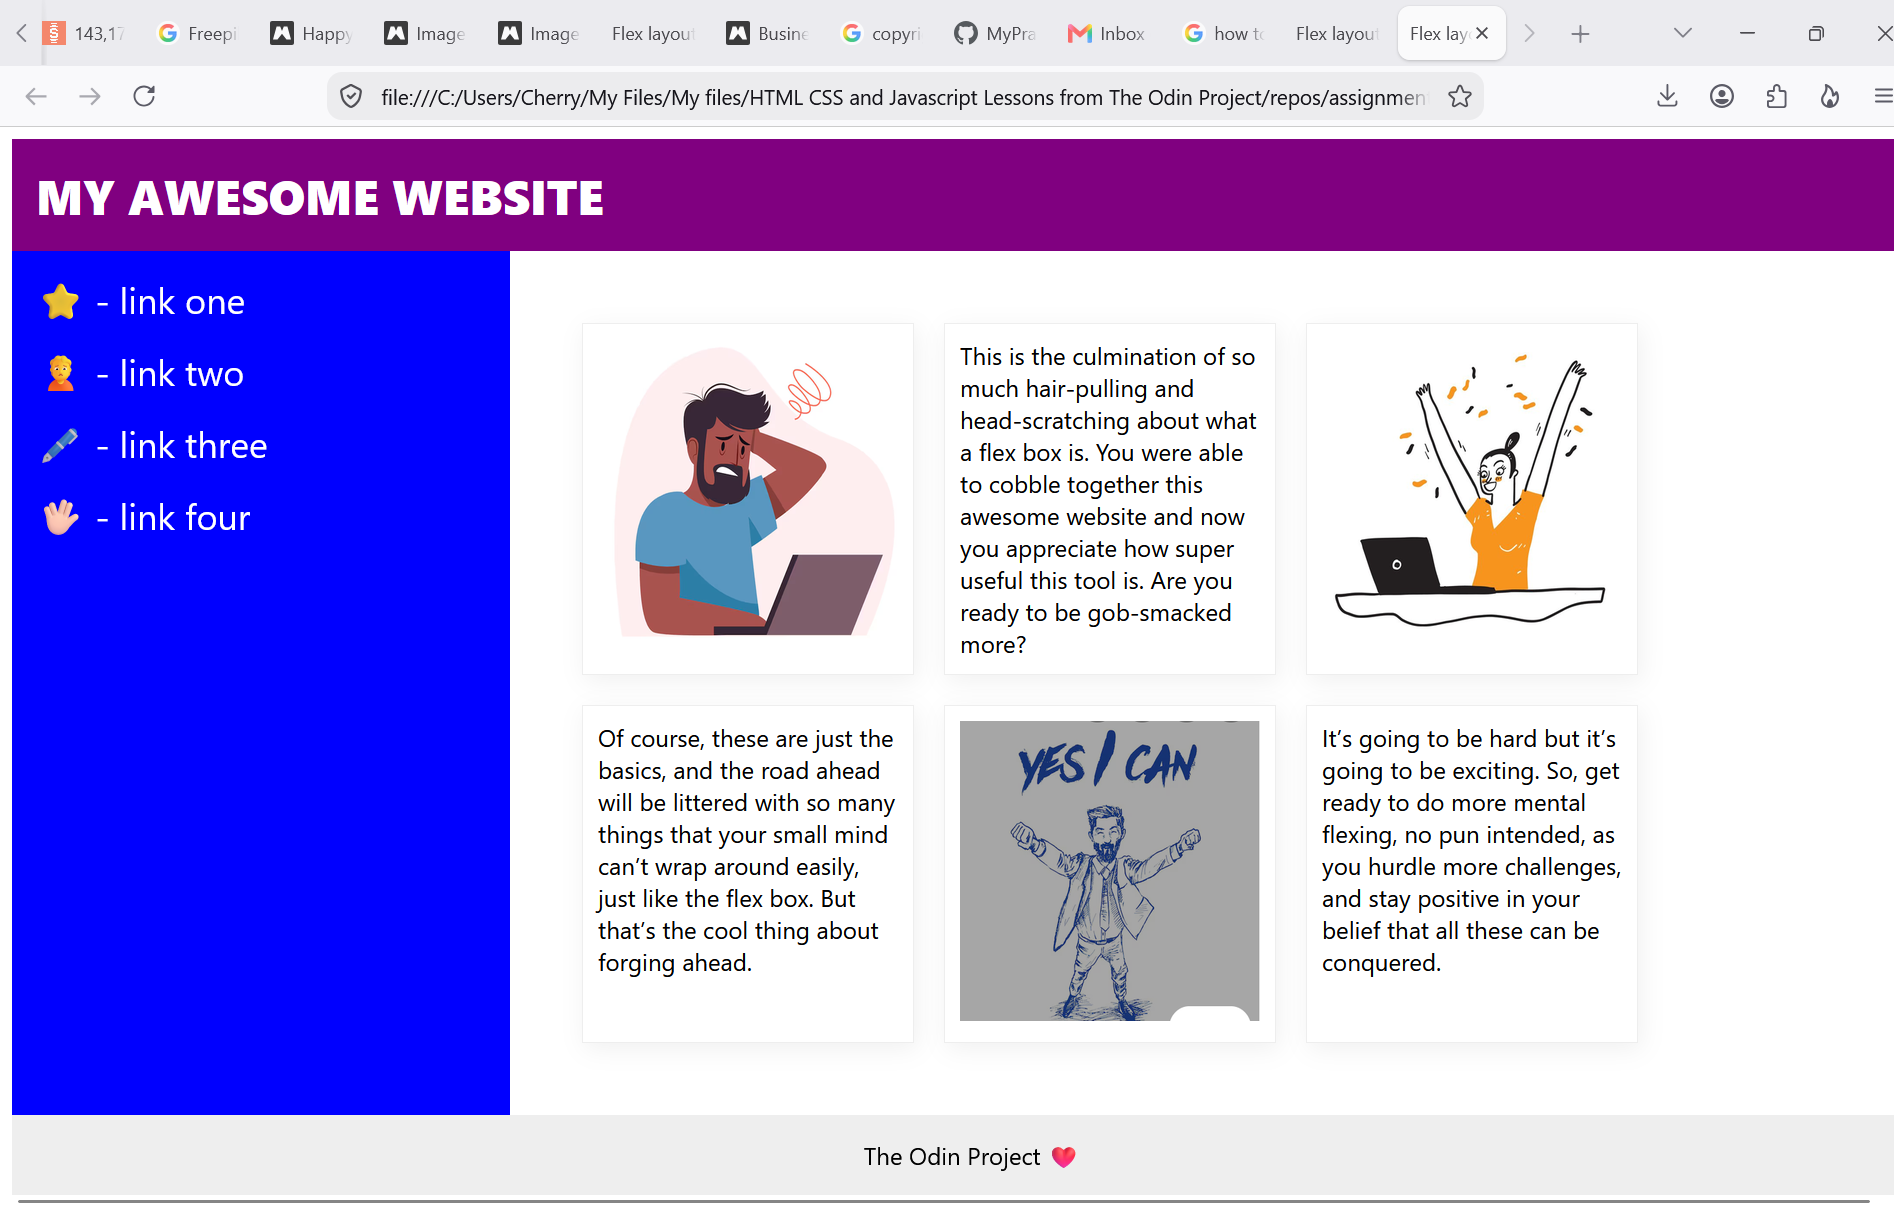
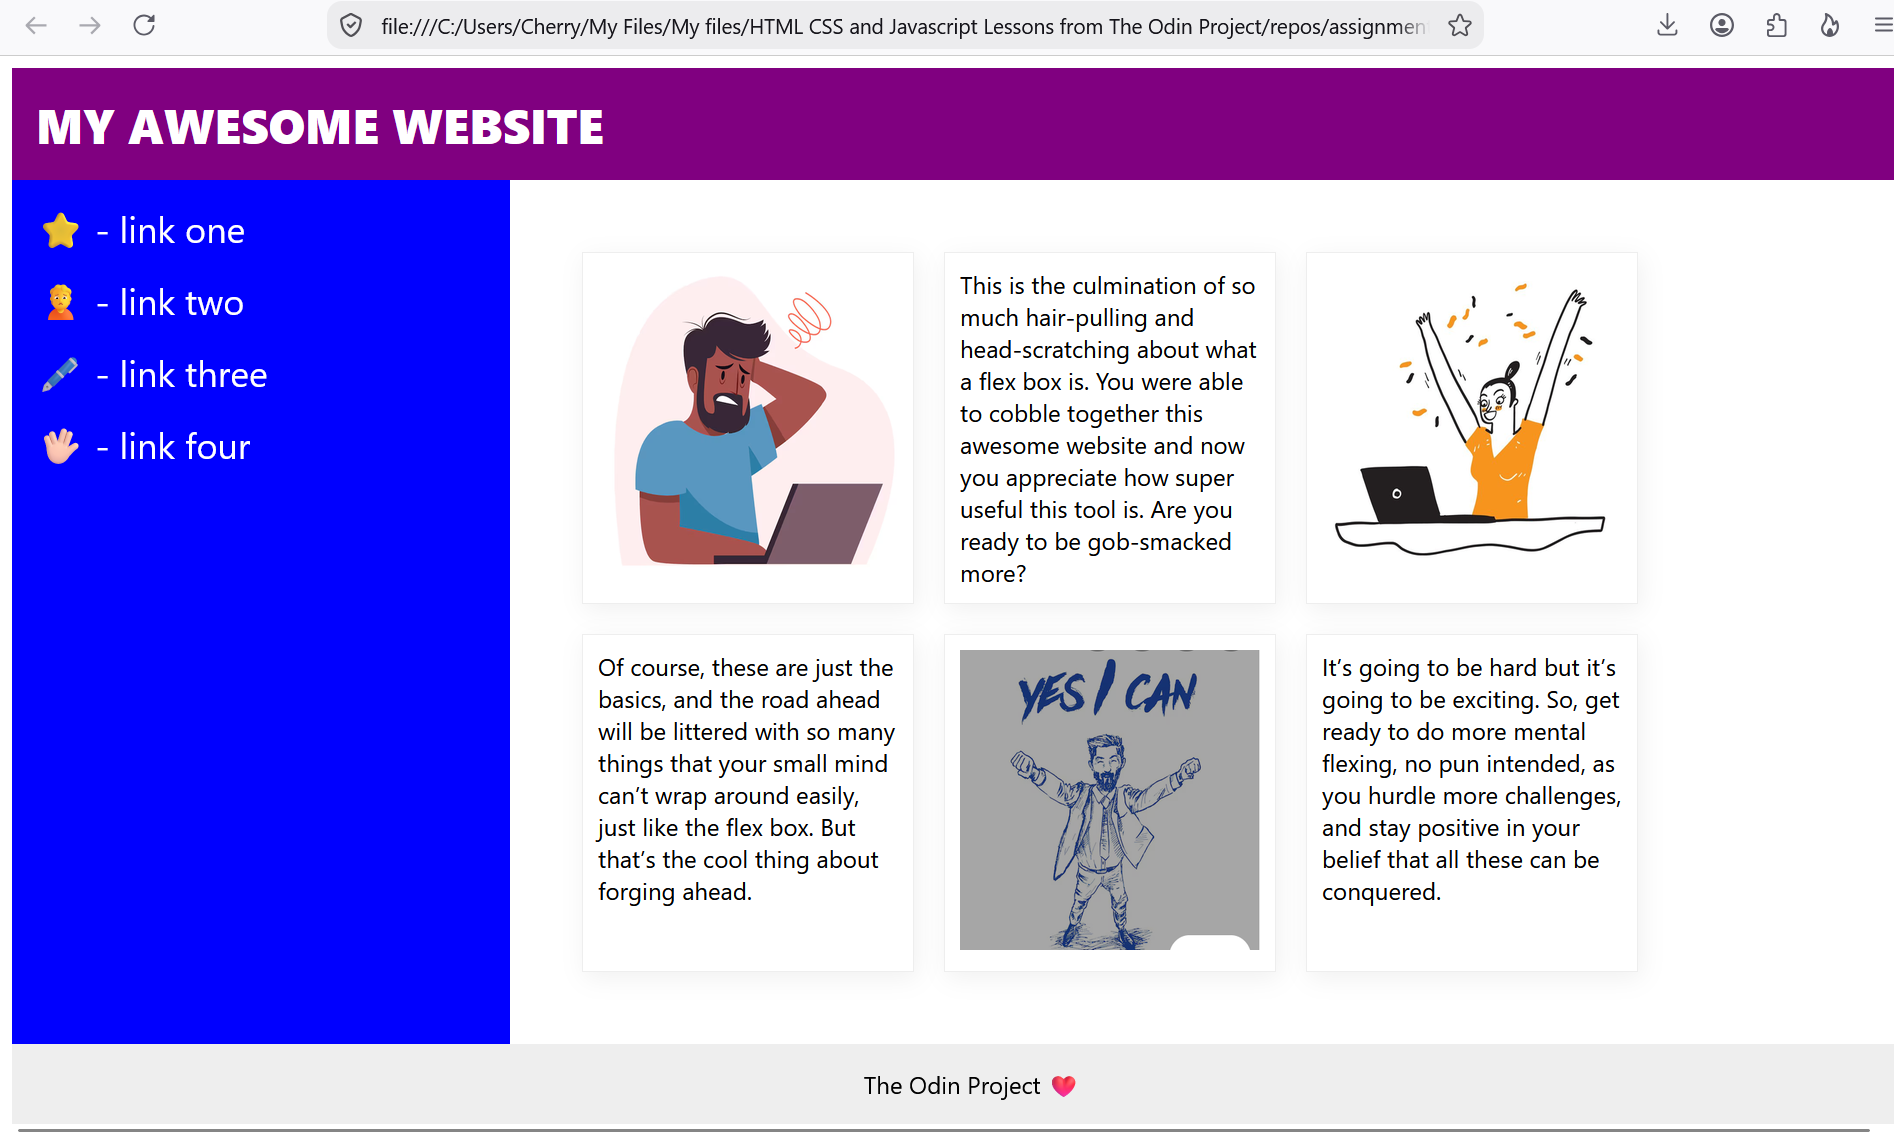
Changes to the screenshot and README commit

diff --git a/README.md b/README.md
@@ -14,7 +14,7 @@ Images are free and taken from the awesome website www.magnific.com. Credits:
 
 a href="https://www.magnific.com/free-vector/business-man-with-text-yes-i-can-hand-draw-sketch-illustration-design_30832338.htm">Image by Rochak Shukla on Magnific
 
-![alt text](image.png)
+![alt text](image-1.png)
 
 
 
